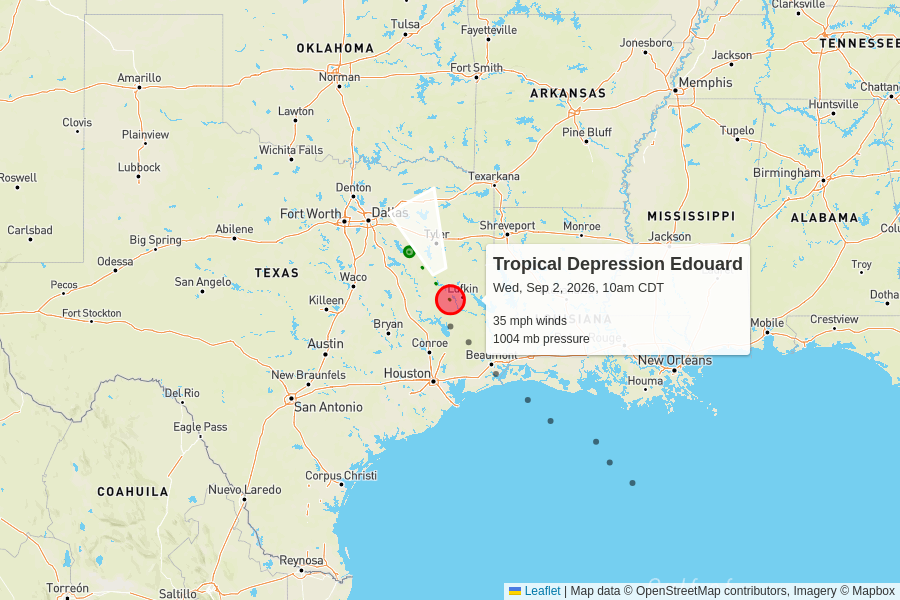
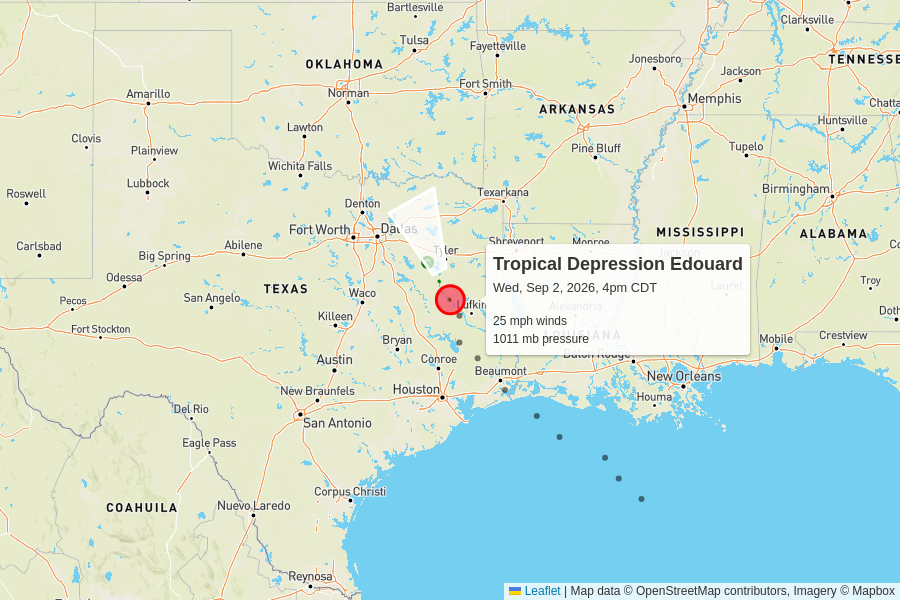
automatic update

diff --git a/docs/2026.html b/docs/2026.html
@@ -45,13 +45,13 @@
       <grid-container>
           <grid-row>
             <script type="text/json" id="storm_data_AL052026">
-              {"pressure":[{"timestamp":"2026-08-31T15:00:00.000Z","value":1013},{"timestamp":"2026-08-31T21:00:00.000Z","value":1011},{"timestamp":"2026-09-01T03:00:00.000Z","value":1005},{"timestamp":"2026-09-01T09:00:00.000Z","value":1005},{"timestamp":"2026-09-01T15:00:00.000Z","value":1000},{"timestamp":"2026-09-01T21:00:00.000Z","value":998},{"timestamp":"2026-09-02T03:00:00.000Z","value":1002},{"timestamp":"2026-09-02T09:00:00.000Z","value":1004},{"timestamp":"2026-09-02T15:00:00.000Z","value":1004}],"wind":[{"timestamp":"2026-08-31T15:00:00.000Z","value":35},{"timestamp":"2026-08-31T21:00:00.000Z","value":35},{"timestamp":"2026-09-01T03:00:00.000Z","value":40},{"timestamp":"2026-09-01T09:00:00.000Z","value":40},{"timestamp":"2026-09-01T15:00:00.000Z","value":50},{"timestamp":"2026-09-01T21:00:00.000Z","value":50},{"timestamp":"2026-09-02T03:00:00.000Z","value":35},{"timestamp":"2026-09-02T09:00:00.000Z","value":35},{"timestamp":"2026-09-02T15:00:00.000Z","value":35}]}
+              {"pressure":[{"timestamp":"2026-08-31T15:00:00.000Z","value":1013},{"timestamp":"2026-08-31T21:00:00.000Z","value":1011},{"timestamp":"2026-09-01T03:00:00.000Z","value":1005},{"timestamp":"2026-09-01T09:00:00.000Z","value":1005},{"timestamp":"2026-09-01T15:00:00.000Z","value":1000},{"timestamp":"2026-09-01T21:00:00.000Z","value":998},{"timestamp":"2026-09-02T03:00:00.000Z","value":1002},{"timestamp":"2026-09-02T09:00:00.000Z","value":1004},{"timestamp":"2026-09-02T15:00:00.000Z","value":1004},{"timestamp":"2026-09-02T21:00:00.000Z","value":1011}],"wind":[{"timestamp":"2026-08-31T15:00:00.000Z","value":35},{"timestamp":"2026-08-31T21:00:00.000Z","value":35},{"timestamp":"2026-09-01T03:00:00.000Z","value":40},{"timestamp":"2026-09-01T09:00:00.000Z","value":40},{"timestamp":"2026-09-01T15:00:00.000Z","value":50},{"timestamp":"2026-09-01T21:00:00.000Z","value":50},{"timestamp":"2026-09-02T03:00:00.000Z","value":35},{"timestamp":"2026-09-02T09:00:00.000Z","value":35},{"timestamp":"2026-09-02T15:00:00.000Z","value":35},{"timestamp":"2026-09-02T21:00:00.000Z","value":25}]}
             </script>              <grid-container class="storm">
                 <grid-row onClick="toggle('storm_AL052026')">
                   <h2>
                     Tropical Depression Edouard
                     <div class="updated">
-                      last updated <time datetime="2026-09-02T15:00:00.000Z">2026-09-02T15:00:00.000Z</time>
+                      last updated <time datetime="2026-09-02T21:00:00.000Z">2026-09-02T21:00:00.000Z</time>
                     </div>
                   </h2>
                 </grid-row>
@@ -67,14 +67,14 @@
                       </tr>
                       <tr>
                         <td>
-                          35 mph
+                          25 mph
                           <br>
-                          0 mph since last update
+                          -10 mph since last update
                         </td>
                         <td>
-                          1004 mb
+                          1011 mb
                           <br>
-                          0 mb since last update
+                          +7 mb since last update
                         </td>
                         <td>
                           5 mph to the north-northwest

diff --git a/docs/index.html b/docs/index.html
@@ -45,13 +45,13 @@
       <grid-container>
           <grid-row>
             <script type="text/json" id="storm_data_AL052026">
-              {"pressure":[{"timestamp":"2026-08-31T15:00:00.000Z","value":1013},{"timestamp":"2026-08-31T21:00:00.000Z","value":1011},{"timestamp":"2026-09-01T03:00:00.000Z","value":1005},{"timestamp":"2026-09-01T09:00:00.000Z","value":1005},{"timestamp":"2026-09-01T15:00:00.000Z","value":1000},{"timestamp":"2026-09-01T21:00:00.000Z","value":998},{"timestamp":"2026-09-02T03:00:00.000Z","value":1002},{"timestamp":"2026-09-02T09:00:00.000Z","value":1004},{"timestamp":"2026-09-02T15:00:00.000Z","value":1004}],"wind":[{"timestamp":"2026-08-31T15:00:00.000Z","value":35},{"timestamp":"2026-08-31T21:00:00.000Z","value":35},{"timestamp":"2026-09-01T03:00:00.000Z","value":40},{"timestamp":"2026-09-01T09:00:00.000Z","value":40},{"timestamp":"2026-09-01T15:00:00.000Z","value":50},{"timestamp":"2026-09-01T21:00:00.000Z","value":50},{"timestamp":"2026-09-02T03:00:00.000Z","value":35},{"timestamp":"2026-09-02T09:00:00.000Z","value":35},{"timestamp":"2026-09-02T15:00:00.000Z","value":35}]}
+              {"pressure":[{"timestamp":"2026-08-31T15:00:00.000Z","value":1013},{"timestamp":"2026-08-31T21:00:00.000Z","value":1011},{"timestamp":"2026-09-01T03:00:00.000Z","value":1005},{"timestamp":"2026-09-01T09:00:00.000Z","value":1005},{"timestamp":"2026-09-01T15:00:00.000Z","value":1000},{"timestamp":"2026-09-01T21:00:00.000Z","value":998},{"timestamp":"2026-09-02T03:00:00.000Z","value":1002},{"timestamp":"2026-09-02T09:00:00.000Z","value":1004},{"timestamp":"2026-09-02T15:00:00.000Z","value":1004},{"timestamp":"2026-09-02T21:00:00.000Z","value":1011}],"wind":[{"timestamp":"2026-08-31T15:00:00.000Z","value":35},{"timestamp":"2026-08-31T21:00:00.000Z","value":35},{"timestamp":"2026-09-01T03:00:00.000Z","value":40},{"timestamp":"2026-09-01T09:00:00.000Z","value":40},{"timestamp":"2026-09-01T15:00:00.000Z","value":50},{"timestamp":"2026-09-01T21:00:00.000Z","value":50},{"timestamp":"2026-09-02T03:00:00.000Z","value":35},{"timestamp":"2026-09-02T09:00:00.000Z","value":35},{"timestamp":"2026-09-02T15:00:00.000Z","value":35},{"timestamp":"2026-09-02T21:00:00.000Z","value":25}]}
             </script>              <grid-container class="storm">
                 <grid-row onClick="toggle('storm_AL052026')">
                   <h2>
                     Tropical Depression Edouard
                     <div class="updated">
-                      last updated <time datetime="2026-09-02T15:00:00.000Z">2026-09-02T15:00:00.000Z</time>
+                      last updated <time datetime="2026-09-02T21:00:00.000Z">2026-09-02T21:00:00.000Z</time>
                     </div>
                   </h2>
                 </grid-row>
@@ -67,14 +67,14 @@
                       </tr>
                       <tr>
                         <td>
-                          35 mph
+                          25 mph
                           <br>
-                          0 mph since last update
+                          -10 mph since last update
                         </td>
                         <td>
-                          1004 mb
+                          1011 mb
                           <br>
-                          0 mb since last update
+                          +7 mb since last update
                         </td>
                         <td>
                           5 mph to the north-northwest
